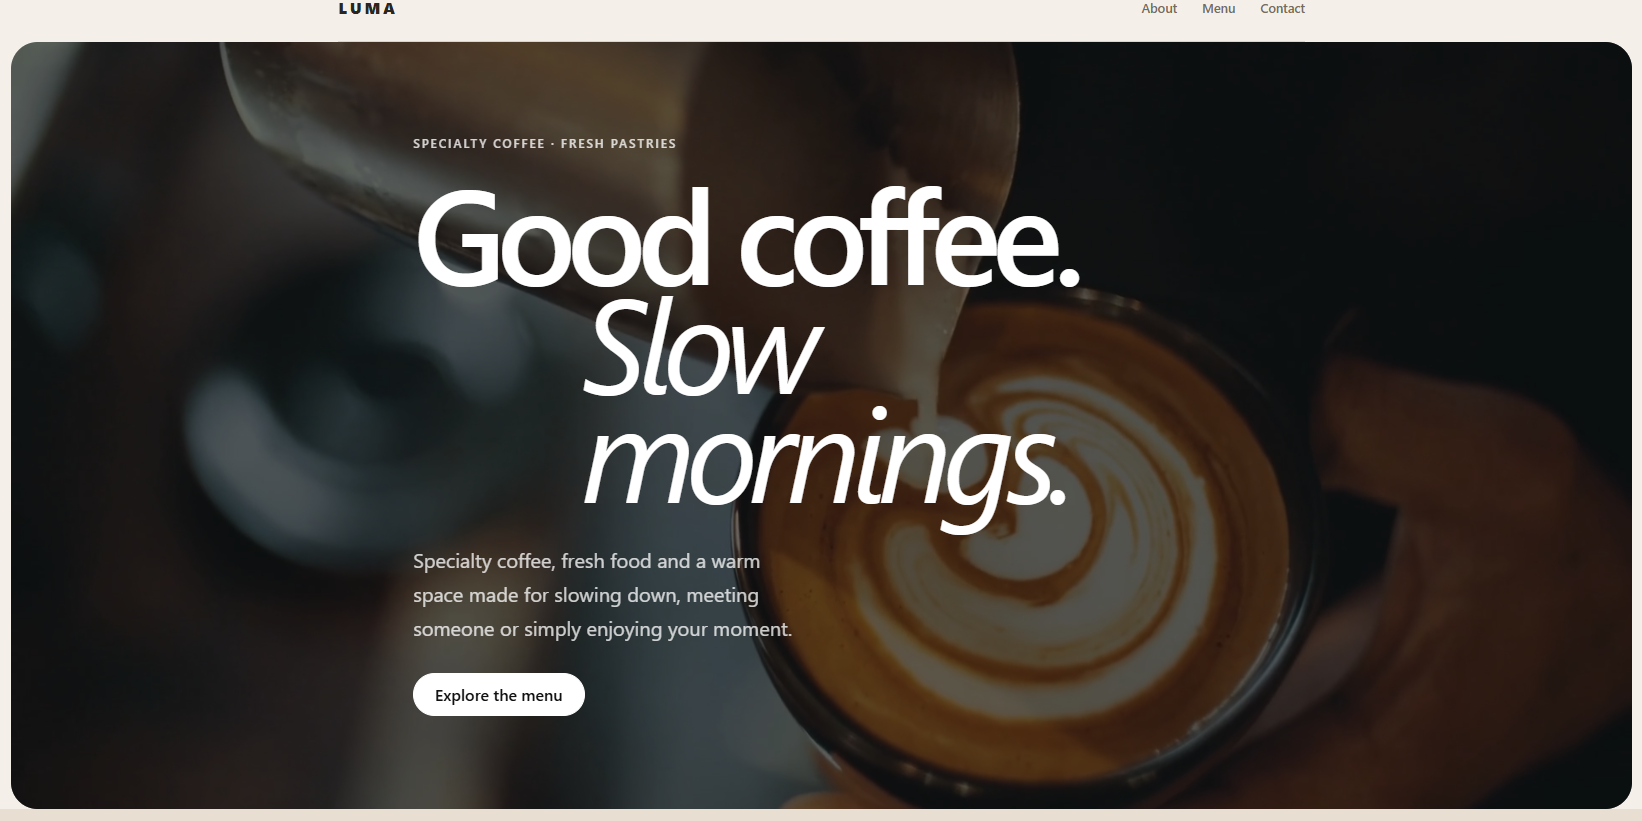
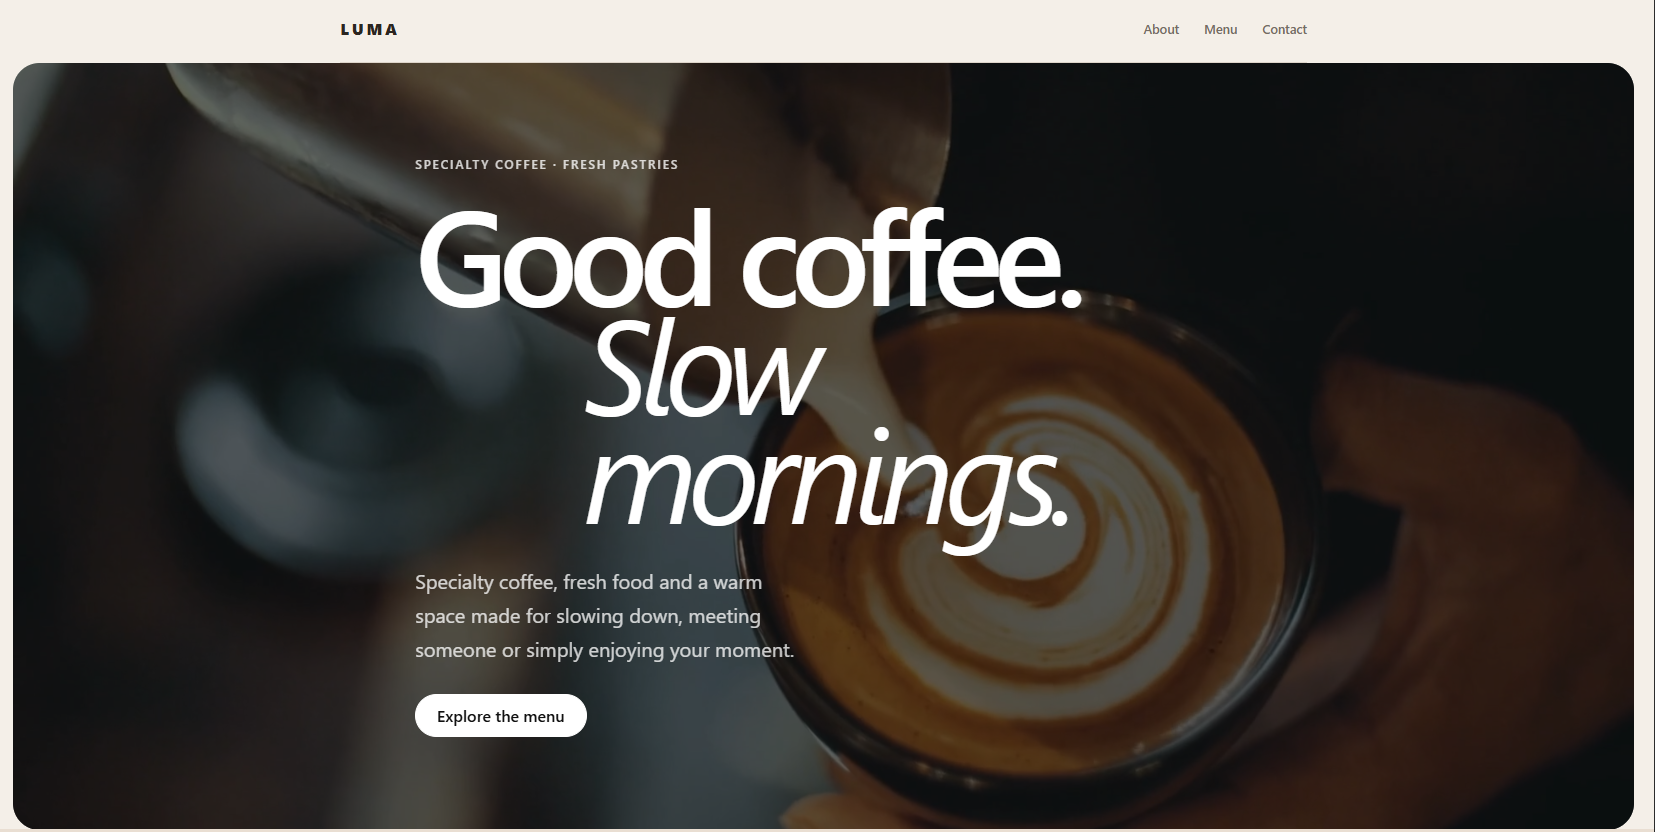
Update

diff --git a/index.html b/index.html
@@ -56,7 +56,7 @@
             <div class="portfolio-grid">
                <div class="portfolio-item">
                     <a href="https://veterinary-one.vercel.app/" target="_blank">
-                        <img src="/assets/img/veterinary.webp" alt="Landing Page for a Pet Shop">
+                        <img src="/assets/img/veterinary.webp" alt="Landing Page for a Veterinary Clinic">
                         <div class="portfolio-info">
                             <h3>Veterinary Landing Page</h3>
                             <p>A veterinary website designed to showcase services and provide a welcoming experience for pet owners.
@@ -69,7 +69,7 @@
                
                 <div class="portfolio-item">
                     <a href="https://luma-nine-tawny.vercel.app/" target="_blank">
-                        <img src="./assets/img/luma.webp" alt="Screenshot of Tech Startup Landing Page">
+                        <img src="./assets/img/luma.webp" alt="Website for a Coffee House">
                         <div class="portfolio-info">
                             <h3>LUMA Coffee House</h3>
                             <p>A responsive multi-page coffee shop website with interactive menu filtering and a clean modern interface.</p>
@@ -80,12 +80,12 @@
         
                 
                 <div class="portfolio-item">
-                    <a href="https://nexus-realms.vercel.app/" target="_blank">
-                        <img src="./assets/img/nexus.webp" alt="Video Game Landing Page">
+                    <a href="iron-core-men8to1nb-santiagomansillas-projects.vercel.app" target="_blank">
+                        <img src="./assets/img/gym-img.webp" alt="Website for a Modern Gym">
                         <div class="portfolio-info">
-                            <h3>Video Game Landing Page</h3>
-                            <p>A landing page that immerses players and highlights the exciting features of a video game.</p>
-                            <p class="tech-stack">HTML, CSS</p>
+                            <h3>Modern Gym Website</h3>
+                           <p>A modern multi-page gym website focused on training, memberships and a strong visual identity.</p>
+                          <p class="tech-stack">React, HTML, CSS, JavaScript</p>
                         </div>
                     </a>
                 </div>

diff --git a/assets/style.css b/assets/style.css
@@ -243,12 +243,12 @@ a:hover {
 
 .portfolio-item img {
     width: 100%;
-    height: 260px;
-    object-fit: cover;
+    height: auto;
     display: block;
 }
 
 .portfolio-info {
+    
     padding: 1rem;
     background: rgba(0, 0, 0, 0.7);
     position: absolute;
